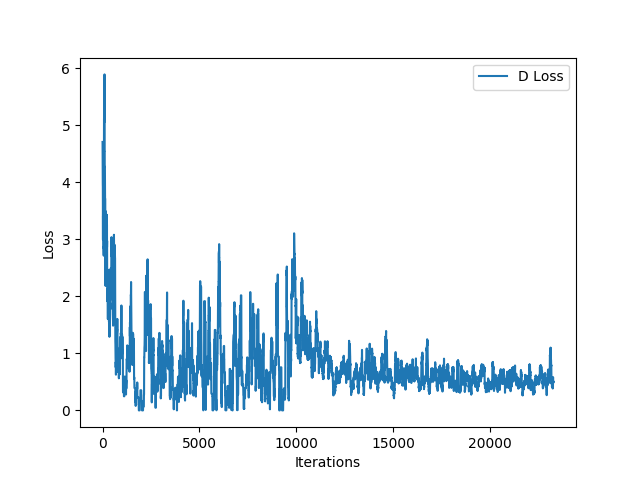
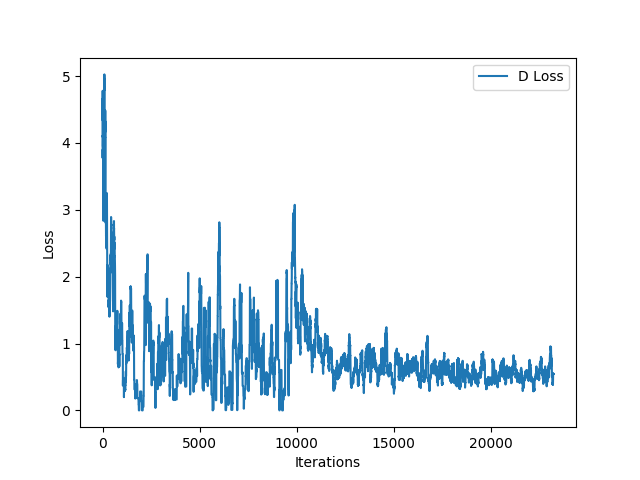
plt loss

diff --git a/plot_loss.py b/plot_loss.py
@@ -9,7 +9,7 @@ matplotlib.use('Agg')
 import matplotlib.pyplot as plt
 import numpy as np
 
-infile = "output/geogan.log"
+infile = "output/geogan_master.log"
 
 with open(infile) as f:
     f = f.readlines()
@@ -33,19 +33,37 @@ d_losses = np.array(d_losses)
 #g_losses = g_losses[:400]
 #d_losses = d_losses[:400]
 
-common_factor = 5
-g_losses = np.mean(g_losses.reshape(-1, common_factor), axis=1) # shrink by common_factor
-d_losses = np.mean(d_losses.reshape(-1, common_factor), axis=1)
+#common_factor = 5
+#g_losses = np.mean(g_losses.reshape(-1, common_factor), axis=1) # shrink by common_factor
+#d_losses = np.mean(d_losses.reshape(-1, common_factor), axis=1)
 
 #g_losses = g_losses[:100]
 #d_losses = d_losses[:100]
 
-print(g_losses)
+#print(g_losses)
+
+def moving_average(arr, window):
+    """
+    http://stackoverflow.com/questions/14313510/how-to-calculate-moving-average-using-numpy
+    """
+    ret = np.cumsum(arr)
+    ret[window:] = ret[window:] - ret[:-window]
+    return ret[window - 1:] / window
+
+
+#arr = np.arange(20)
+g_losses = moving_average(g_losses, window=100)
+d_losses = moving_average(d_losses, window=100)
 
 plt.plot(g_losses, label = "G Loss")
-plt.plot(d_losses, label = "D Loss")
-
 plt.legend()
-plt.xlabel("Epochs")
+plt.xlabel("Iterations")
 plt.ylabel("Loss")
-plt.savefig("losses/geogan_105.png")
+plt.savefig("losses/geogan_gen_loss.png")
+
+plt.figure()
+plt.plot(d_losses, label = "D Loss")
+plt.legend()
+plt.xlabel("Iterations")
+plt.ylabel("Loss")
+plt.savefig("losses/geogan_dic_loss.png")
